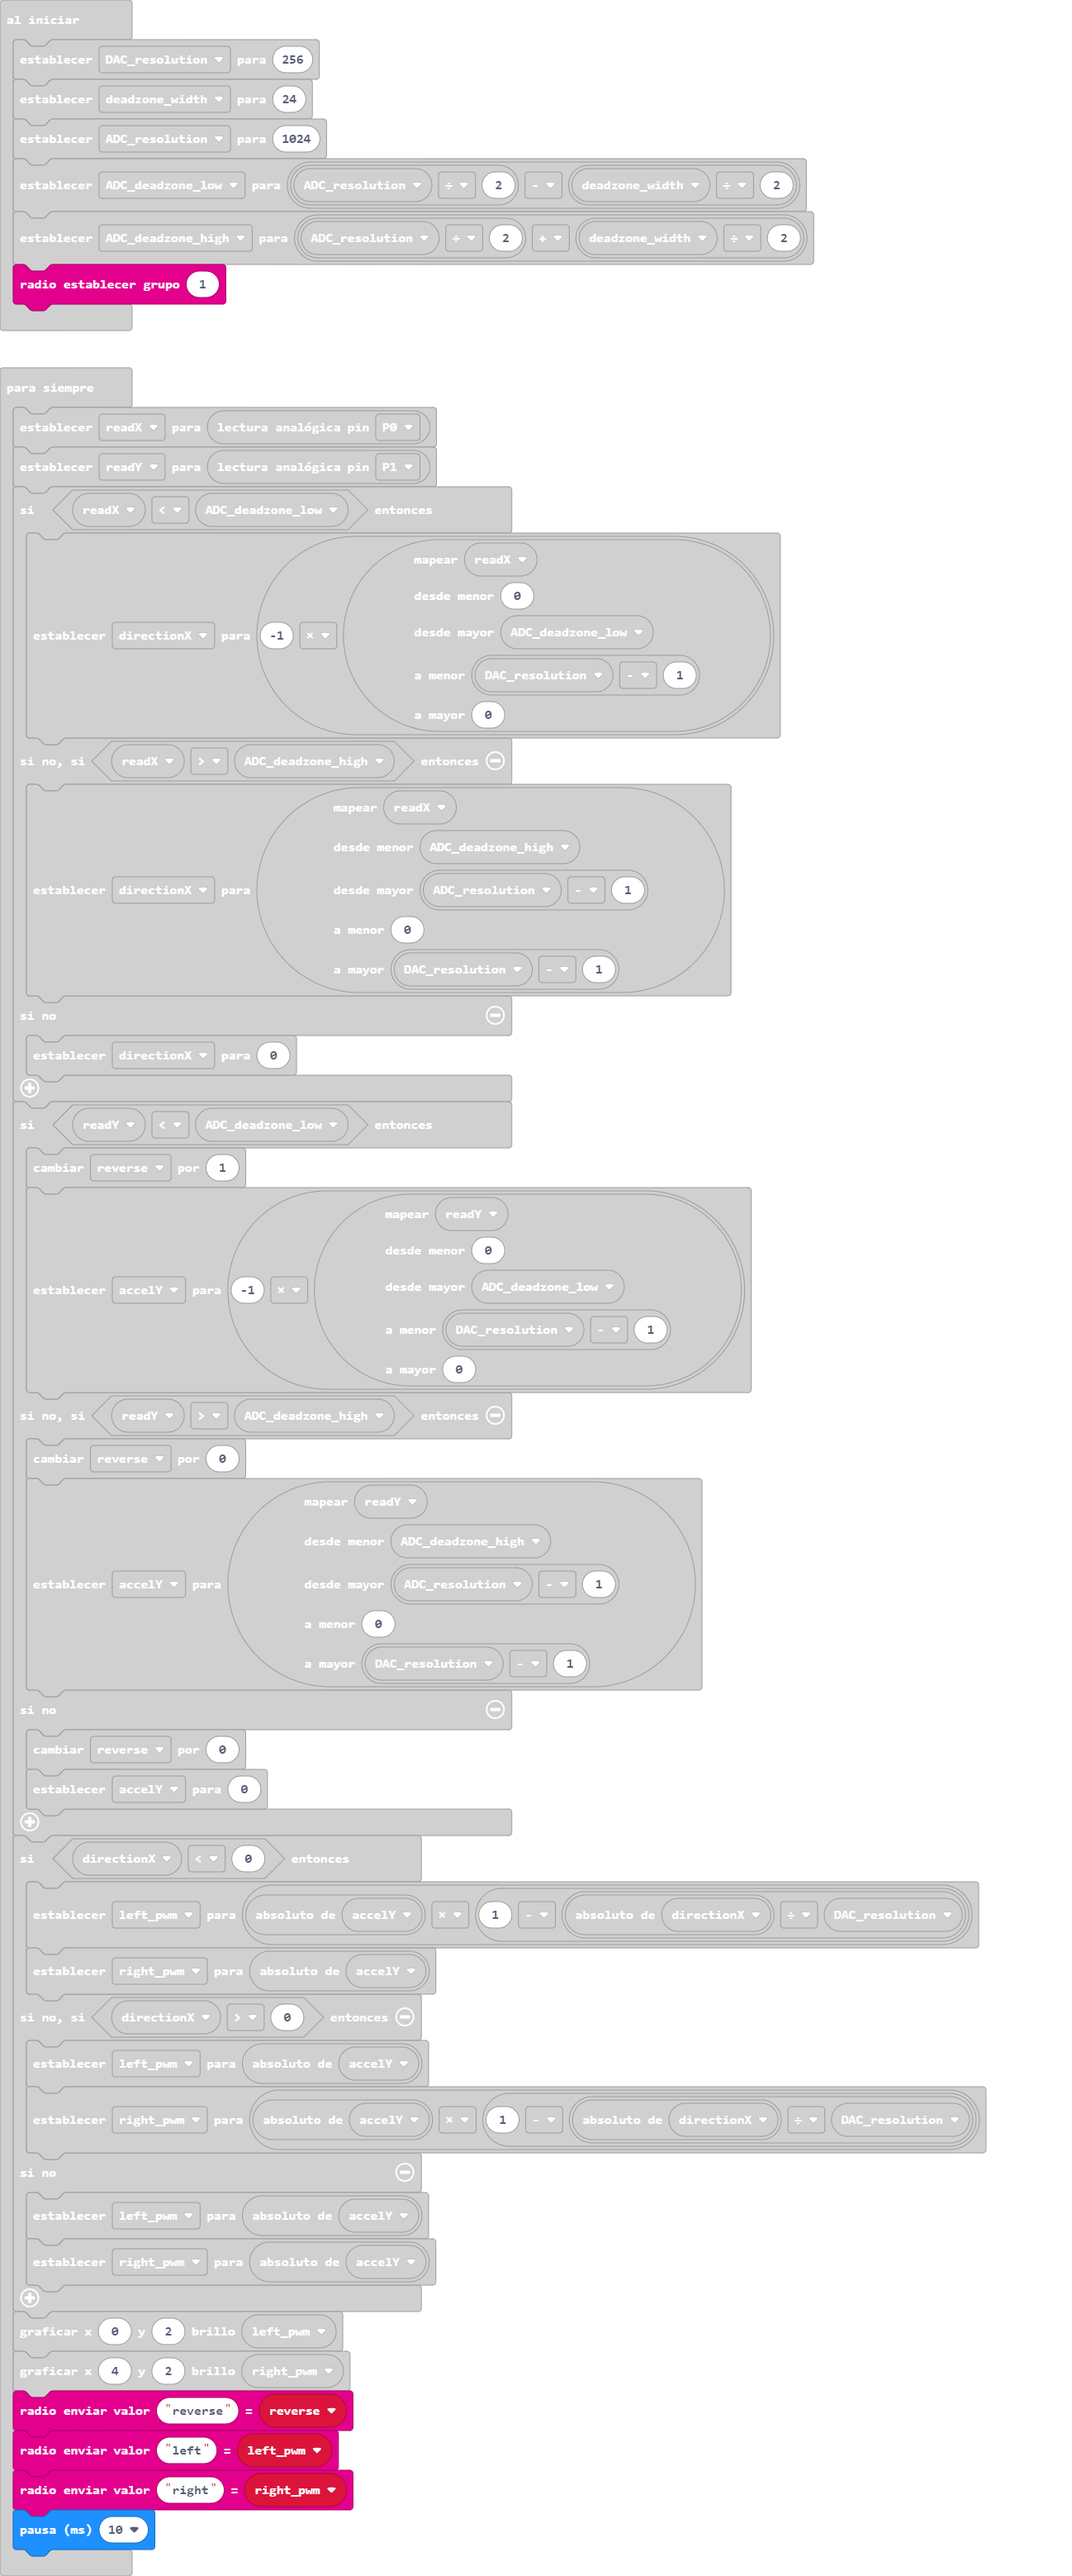
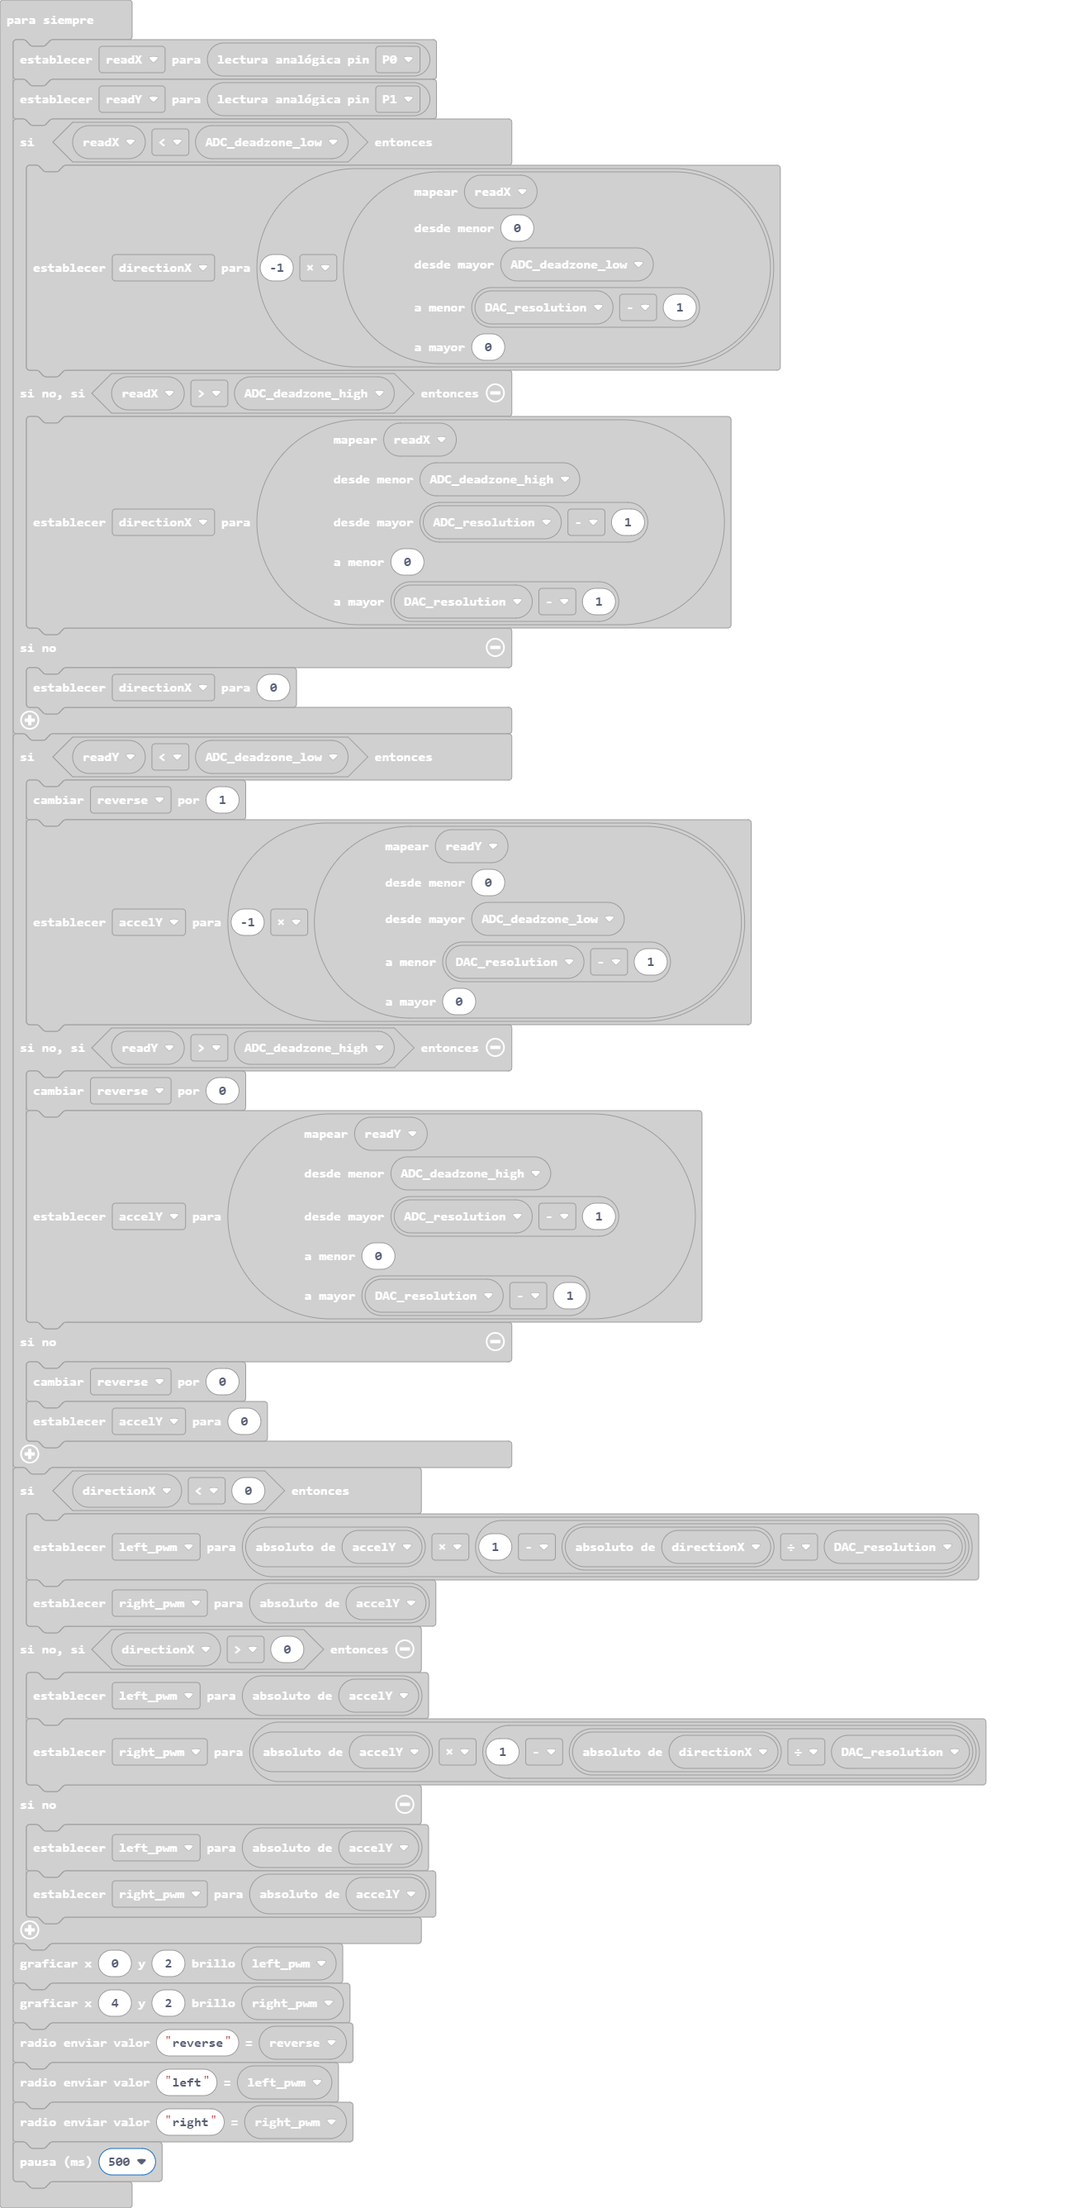
Actualizar main.blocks, main.ts

Changed region(s): [[0.0, 0.0, 0.9245, 0.994], [0.0308, 0.4659, 0.0616, 0.497]]

diff --git a/main.ts b/main.ts
@@ -70,5 +70,5 @@ basic.forever(function () {
     radio.sendValue("reverse", reverse)
     radio.sendValue("left", left_pwm)
     radio.sendValue("right", right_pwm)
-    basic.pause(10)
+    basic.pause(500)
 })
